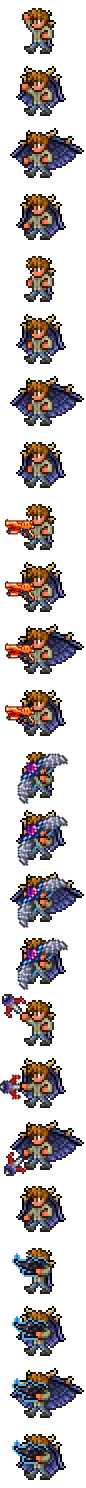
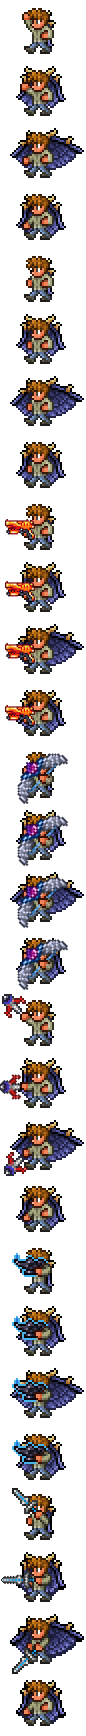
Guide half health attcks

diff --git a/NPCs/Town/Guide2.cs b/NPCs/Town/Guide2.cs
@@ -26,6 +26,8 @@ namespace OvermorrowMod.NPCs.Town
         int magictimer;
 
 
+        int swordtimer;
+        bool Sword = false;
         bool Lamp = false;
         bool TwinANI = false;
         int frame = 0;
@@ -36,7 +38,7 @@ namespace OvermorrowMod.NPCs.Town
         public override void SetStaticDefaults()
         {
             DisplayName.SetDefault("Enraged Guide");
-            Main.npcFrameCount[npc.type] = 24;
+            Main.npcFrameCount[npc.type] = 28;
         }
 
         public override void SetDefaults()
@@ -292,26 +294,62 @@ namespace OvermorrowMod.NPCs.Town
 
                             if (npc.ai[1] == 100)
                             {
-                                NPC.NewNPC((int)npc.Center.X , (int)npc.Center.Y, mod.NPCType("Twin1NPC"));
-                                NPC.NewNPC((int)npc.Center.X, (int)npc.Center.Y, mod.NPCType("Twin2NPC"));
-                                TwinANI = true;
-                                frame = 17;
+                                if(npc.life < npc.lifeMax / 2)
+                                {
+                                    NPC.NewNPC((int)npc.Center.X , (int)npc.Center.Y, mod.NPCType("Twin1NPC"));
+                                    NPC.NewNPC((int)npc.Center.X, (int)npc.Center.Y, mod.NPCType("Twin2NPC"));
+                                    TwinANI = true;
+                                    frame = 17;
+                                }
+                                else
+                                {
+                                    NPC.NewNPC((int)npc.Center.X + 60, (int)npc.Center.Y, 301);
+                                    NPC.NewNPC((int)npc.Center.X - 60, (int)npc.Center.Y, 301);
+                                    NPC.NewNPC((int)npc.Center.X + 120, (int)npc.Center.Y, 301);
+                                    NPC.NewNPC((int)npc.Center.X - 120, (int)npc.Center.Y, 301);
+                                    TwinANI = true;
+                                    frame = 17;
+                                }
                             }
 
                             if (npc.ai[1] == 200)
                             {
-                                NPC.NewNPC((int)npc.Center.X , (int)npc.Center.Y, mod.NPCType("Twin1NPC"));
-                                NPC.NewNPC((int)npc.Center.X, (int)npc.Center.Y, mod.NPCType("Twin2NPC"));
-                                TwinANI = true;
-                                frame = 17;
+                                if(npc.life < npc.lifeMax / 2)
+                                {
+                                    NPC.NewNPC((int)npc.Center.X , (int)npc.Center.Y, mod.NPCType("Twin1NPC"));
+                                    NPC.NewNPC((int)npc.Center.X, (int)npc.Center.Y, mod.NPCType("Twin2NPC"));
+                                    TwinANI = true;
+                                    frame = 17;
+                                }
+                                else
+                                {
+                                    NPC.NewNPC((int)npc.Center.X + 60, (int)npc.Center.Y, 301);
+                                    NPC.NewNPC((int)npc.Center.X - 60, (int)npc.Center.Y, 301);
+                                    NPC.NewNPC((int)npc.Center.X + 120, (int)npc.Center.Y, 301);
+                                    NPC.NewNPC((int)npc.Center.X - 120, (int)npc.Center.Y, 301);
+                                    TwinANI = true;
+                                    frame = 17;
+                                }
                             }
 
                             if (npc.ai[1] == 300)
                             {
-                                NPC.NewNPC((int)npc.Center.X , (int)npc.Center.Y, mod.NPCType("Twin1NPC"));
-                                NPC.NewNPC((int)npc.Center.X, (int)npc.Center.Y, mod.NPCType("Twin2NPC"));
-                                TwinANI = true;
-                                frame = 17;
+                                if(npc.life < npc.lifeMax / 2)
+                                {
+                                    NPC.NewNPC((int)npc.Center.X , (int)npc.Center.Y, mod.NPCType("Twin1NPC"));
+                                    NPC.NewNPC((int)npc.Center.X, (int)npc.Center.Y, mod.NPCType("Twin2NPC"));
+                                    TwinANI = true;
+                                    frame = 17;
+                                }
+                                else
+                                {
+                                    NPC.NewNPC((int)npc.Center.X + 60, (int)npc.Center.Y, 301);
+                                    NPC.NewNPC((int)npc.Center.X - 60, (int)npc.Center.Y, 301);
+                                    NPC.NewNPC((int)npc.Center.X + 120, (int)npc.Center.Y, 301);
+                                    NPC.NewNPC((int)npc.Center.X - 120, (int)npc.Center.Y, 301);
+                                    TwinANI = true;
+                                    frame = 17;
+                                }
                             }
 
 
@@ -382,15 +420,34 @@ namespace OvermorrowMod.NPCs.Town
                         arrowtimer++;
                         if(npc.ai[1] < 100)
                         {
-                            if (bulltimer > 9)
+                            if(npc.life > npc.lifeMax / 2)
                             {
-                                Vector2 position = npc.Center;
-                                Vector2 targetPosition = Main.player[npc.target].Center;
-                                Vector2 direction = targetPosition - position;
-                                direction.Normalize();
-                                float speed = 9f;
-                                int proj = Projectile.NewProjectile(position, direction * speed, 180, npc.damage, 0f, Main.myPlayer);  
-                                bulltimer = 0;    
+                                if (bulltimer > 9)
+                                {
+                                    Vector2 position = npc.Center;
+                                    Vector2 targetPosition = Main.player[npc.target].Center;
+                                    Vector2 direction = targetPosition - position;
+                                    direction.Normalize();
+                                    float speed = 9f;
+                                    int proj = Projectile.NewProjectile(position, direction * speed, 180, npc.damage, 0f, Main.myPlayer);  
+                                    bulltimer = 0;  
+                                }  
+                            }
+                            else
+                            {
+                                if (bulltimer > 3)
+                                {
+                                    Vector2 position = npc.Center;
+                                    Vector2 targetPosition = Main.player[npc.target].Center;
+                                    Vector2 direction = targetPosition - position;
+                                    direction.Normalize();
+                                    float speed = 9f;
+                                    Vector2 Rot70 = new Vector2(direction.X,  direction.Y).RotatedByRandom(MathHelper.ToRadians(8));
+                                    int projbul = Projectile.NewProjectile(position, Rot70 * speed, 283, npc.damage, 0f, Main.myPlayer);  
+                                    Main.projectile[projbul].friendly = false;
+                                    Main.projectile[projbul].hostile = true;
+                                    bulltimer = 0;  
+                                }
                             }
                         }
                         if(npc.ai[1] > 99)
@@ -434,14 +491,31 @@ namespace OvermorrowMod.NPCs.Town
 
                         if(Vector2.Distance(npc.Center, Main.player[npc.target].Center) < 310f)
                         {
-                            if(magictimer > 7)
+                            if(npc.life < npc.lifeMax / 2 && magictimer > 7)
                             {
                                 Vector2 GuidePos2 = npc.Center;
                                 Vector2 PlayerPosition2 = Main.player[npc.target].Center;
                                 Vector2 GuideDirection2 = PlayerPosition2 - GuidePos2;
                                 GuideDirection2.Normalize();
                                 npc.velocity += GuideDirection2 * -0.07f;  
-
+                                Vector2 position = npc.Center;
+                                Vector2 targetPosition = Main.player[npc.target].Center;
+                                Vector2 direction = targetPosition - position;
+                                direction.Normalize();
+                                float speed = 4f;
+                                Vector2 Rot10 = new Vector2(direction.X,  direction.Y).RotatedByRandom(MathHelper.ToRadians(30));
+                                Projectile.NewProjectile(position, Rot10 * speed, ModContent.ProjectileType<GuideShadowFlame>(), npc.damage, 0f, Main.myPlayer);  
+                                Lamp = false;
+                                frame = 0;
+                                magictimer = 0;
+                            }
+                            else if(magictimer > 7 && npc.life > npc.lifeMax / 2)
+                            {
+                                Vector2 GuidePos2 = npc.Center;
+                                Vector2 PlayerPosition2 = Main.player[npc.target].Center;
+                                Vector2 GuideDirection2 = PlayerPosition2 - GuidePos2;
+                                GuideDirection2.Normalize();
+                                npc.velocity += GuideDirection2 * -0.07f;  
                                 Vector2 position = npc.Center;
                                 Vector2 targetPosition = Main.player[npc.target].Center;
                                 Vector2 direction = targetPosition - position;
@@ -527,7 +601,7 @@ namespace OvermorrowMod.NPCs.Town
 
                         if (npc.ai[1] > 30)
                         {
-                            npc.ai[0] =  -1;
+                            npc.ai[0] = -1;
                             npc.ai[1] = 0;
                         }
                     }
@@ -542,27 +616,103 @@ namespace OvermorrowMod.NPCs.Town
                         npc.velocity = GuideDirection * 5f;
 
 
-
-                        disctimer++;
-                        if(disctimer > 14)
+                        if(npc.life > npc.lifeMax / 2)
                         {
-                            disctimer = 0;
+                            disctimer++;
+                            if(disctimer > 14)
+                            {
+                                disctimer = 0;
+                            }
+
+                            if(disctimer == 13 && Main.player[npc.target].ownedProjectileCounts[ModContent.ProjectileType<LightDisc2>()] < 5)
+                            {
+                                Vector2 position = npc.Center;
+                                Vector2 targetPosition = Main.player[npc.target].Center;
+                                Vector2 direction = targetPosition - position;
+                                direction.Normalize();
+                                float Projspeed = 15f;
+                                Projectile.NewProjectile(position, direction * Projspeed, ModContent.ProjectileType<LightDisc2>(), npc.damage, 0f, Main.myPlayer);  
+                                frame = 0;
+                            }
+                        }
+                        else
+                        {
+                            disctimer++;
+                            if(disctimer == 13 && Main.player[npc.target].ownedProjectileCounts[ModContent.ProjectileType<LightDisc2>()] < 5 && !Sword)
+                            {
+                                Vector2 position = npc.Center;
+                                Vector2 targetPosition = Main.player[npc.target].Center;
+                                Vector2 direction = targetPosition - position;
+                                direction.Normalize();
+                                float Projspeed = 15f;
+                                Projectile.NewProjectile(position, direction * Projspeed, ModContent.ProjectileType<LightDisc2>(), npc.damage, 0f, Main.myPlayer);  
+                                frame = 0;
+                            }
+
+                            if(disctimer > 14)
+                            {
+                                disctimer = 0;
+                            }
+
+                            if(npc.ai[1] == 160 || npc.ai[1] == 360)
+                            {
+                                Sword = true;
+                            }
+
+                            if(Sword)
+                            {
+                                disctimer = 0;
+                                swordtimer++;
+                                if(swordtimer == 10)
+                                {
+                                    Vector2 position = npc.Center;
+                                    Vector2 targetPosition = Main.player[npc.target].Center;
+                                    Vector2 direction = targetPosition - position;
+                                    direction.Normalize();
+                                    float Projspeed = 15f;
+                                    int slash = Projectile.NewProjectile(position, direction * Projspeed, 116, npc.damage, 0f, Main.myPlayer);  
+                                    Main.projectile[slash].friendly = false;
+                                    Main.projectile[slash].hostile = true;
+                                    frame = 25;
+                                }
+                                if(swordtimer == 20)
+                                {
+                                    Vector2 position = npc.Center;
+                                    Vector2 targetPosition = Main.player[npc.target].Center;
+                                    Vector2 direction = targetPosition - position;
+                                    direction.Normalize();
+                                    float Projspeed = 15f;
+                                    Vector2 Rot8 = new Vector2(direction.X,  direction.Y).RotatedBy(MathHelper.ToRadians(17));
+                                    int slash2 = Projectile.NewProjectile(position, Rot8 * Projspeed, 116, npc.damage, 0f, Main.myPlayer);  
+                                    Main.projectile[slash2].friendly = false;
+                                    Main.projectile[slash2].hostile = true;
+                                    frame = 25;
+                                }
+                                if(swordtimer == 30)
+                                {
+                                    Vector2 position = npc.Center;
+                                    Vector2 targetPosition = Main.player[npc.target].Center;
+                                    Vector2 direction = targetPosition - position;
+                                    direction.Normalize();
+                                    float Projspeed = 15f;
+                                    Vector2 Rot9 = new Vector2(direction.X,  direction.Y).RotatedBy(MathHelper.ToRadians(-17));
+                                    int slash3 = Projectile.NewProjectile(position, Rot9 * Projspeed, 116, npc.damage, 0f, Main.myPlayer);  
+                                    Main.projectile[slash3].friendly = false;
+                                    Main.projectile[slash3].hostile = true;
+                                    frame = 25;
+                                }
+
+                                if(swordtimer == 40)
+                                {
+                                    swordtimer = 0;
+                                    Sword = false;
+                                }
+                            }
                         }
 
-                        if(disctimer == 13 && Main.player[npc.target].ownedProjectileCounts[ModContent.ProjectileType<LightDisc2>()] < 5)
+                        if (npc.ai[1] > 500)
                         {
-                            Vector2 position = npc.Center;
-                            Vector2 targetPosition = Main.player[npc.target].Center;
-                            Vector2 direction = targetPosition - position;
-                            direction.Normalize();
-                            float Projspeed = 15f;
-                            Projectile.NewProjectile(position, direction * Projspeed, ModContent.ProjectileType<LightDisc2>(), npc.damage, 0f, Main.myPlayer);  
-                            frame = 0;
-                        }
-
-                        if (npc.ai[1] > 540)
-                        {
-                            npc.ai[0] = 0;
+                            npc.ai[0] = -1;
                             npc.ai[1] = 0;
                         }
                         break;
@@ -674,15 +824,39 @@ namespace OvermorrowMod.NPCs.Town
 
             if(npc.ai[0] == 3)
             {
-                npc.frameCounter++;
-                if (npc.frameCounter > 4) // Ticks per frame
+                if(!Sword)
                 {
-                    npc.frameCounter = 0;
-                    frame += 1;
+                    npc.frameCounter++;
+                    if (npc.frameCounter > 4) // Ticks per frame
+                    {
+                        npc.frameCounter = 0;
+                        frame += 1;
+                    }
+                    if (frame >= 8) // 6 is max # of frames
+                    {
+                        frame = 4; // Reset back to default
+                    }
                 }
-                if (frame >= 8) // 6 is max # of frames
+                if(Sword)
                 {
-                    frame = 4; // Reset back to default
+                    npc.frameCounter++;
+                    if (npc.frameCounter > 4) // Ticks per frame
+                    {
+                        npc.frameCounter = 0;
+                        frame += 1;
+                    }
+                    if (frame < 4) 
+                    {
+                        frame = 4;
+                    }
+                    if (frame == 8) 
+                    {
+                        frame = 4; 
+                    }
+                    if (frame >= 27) 
+                    {
+                        frame = 4; 
+                    }
                 }
             }
 

diff --git a/NPCs/Town/GuideShadowFlame.cs b/NPCs/Town/GuideShadowFlame.cs
@@ -1,0 +1,45 @@
+using Microsoft.Xna.Framework;
+using Terraria;
+using Terraria.ID;
+using Terraria.ModLoader;
+using static Terraria.ModLoader.ModContent;
+using System;
+
+namespace OvermorrowMod.NPCs.Town
+{
+    public class GuideShadowFlame : ModProjectile
+    {
+        private int KeepAliveTime2 = 1;
+        private int Time = 0;
+        int Random2 = Main.rand.Next(-10, 11);
+        int Random1 = Main.rand.Next(-10, 11);
+        public override string Texture => "Terraria/Projectile_" + ProjectileID.ShadowFlame;
+        public override void SetDefaults()
+        {
+            projectile.CloneDefaults(ProjectileID.ShadowFlame);
+            aiType = ProjectileID.ShadowFlame;
+            projectile.friendly = false;
+            projectile.hostile = true;
+        }
+
+
+
+        public override void AI()
+        {
+            Time++;
+            if(Time == 1)
+            {
+                Random2 = Main.rand.Next(-7, 8);
+                Random1 = Main.rand.Next(-7, 8);
+            }
+            projectile.velocity.X += Random2 * 0.03f;
+            projectile.velocity.Y += Random2 * 0.03f;
+        }
+
+
+        public override void SetStaticDefaults()
+        {
+            DisplayName.SetDefault("Shadow Tentacle");
+        }
+    }
+}
